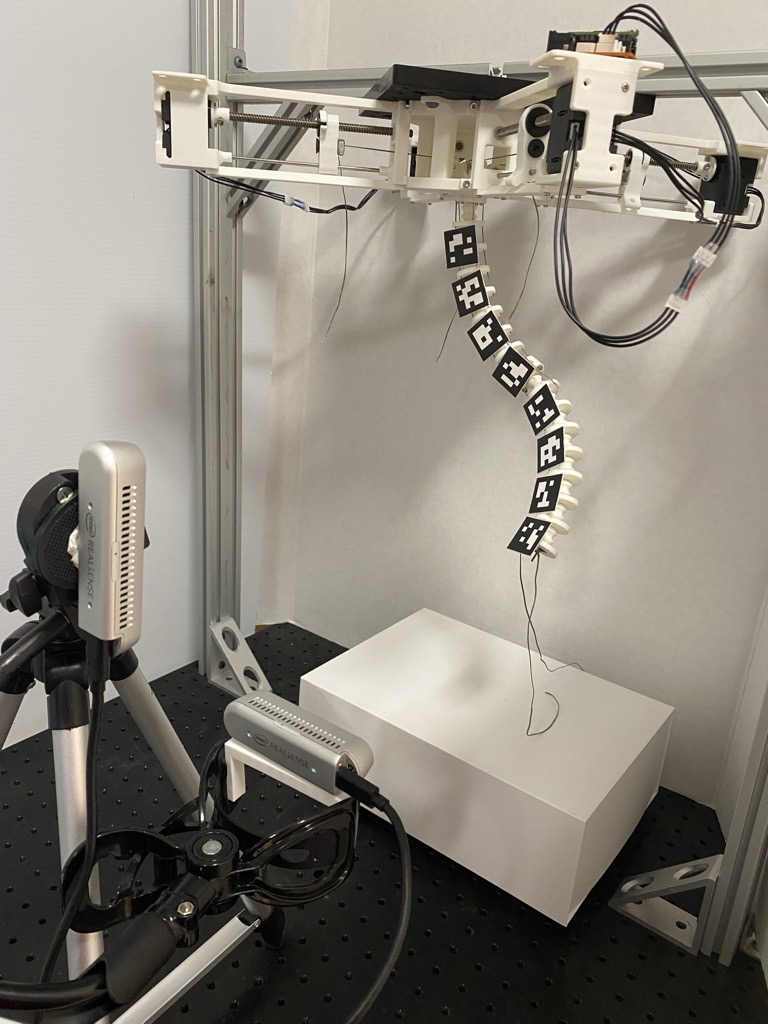
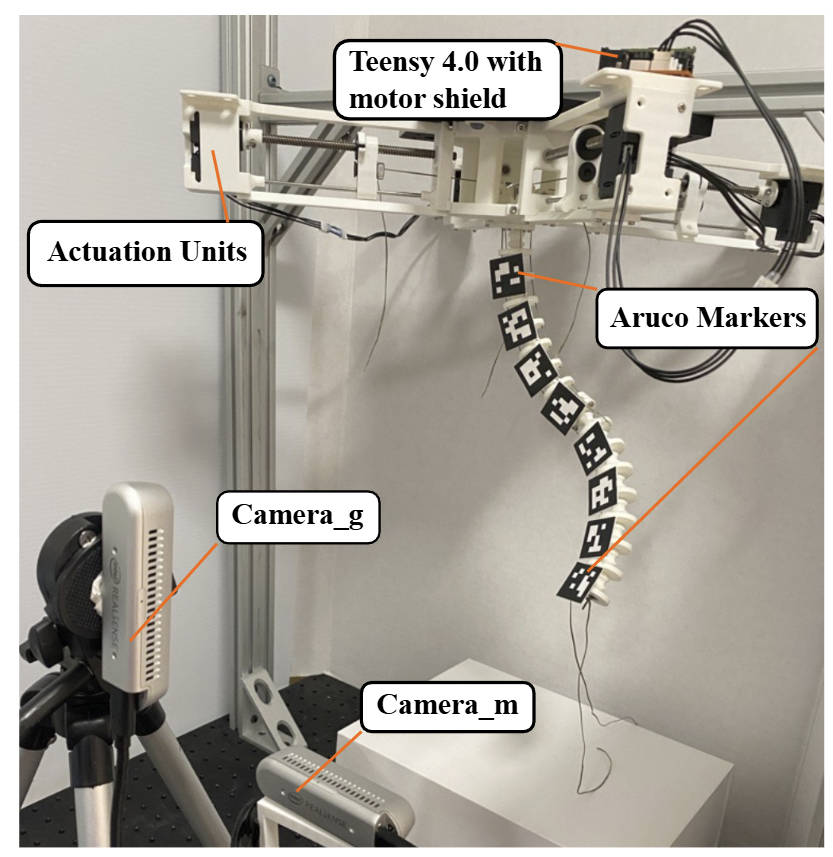
Refresh research platform images

diff --git a/index.html b/index.html
@@ -122,7 +122,7 @@
                     </article>
 
                     <article class="showcase-card showcase-card-large">
-                        <img src="images/Small_scale_surgical_continuum_robot.png" alt="Illustration of a force sensing continuum robot mechatronics platform" class="showcase-image" loading="lazy">
+                        <img src="images/Small_scale_surgical_continuum_robot.jpg" alt="Illustration of a force sensing continuum robot mechatronics platform" class="showcase-image" loading="lazy">
                         <div class="showcase-body">
                             <p class="card-label">Ph.D. Research Platform 02</p>
                             <h3>Integrated Shape-Force Mechatronics Rig</h3>
